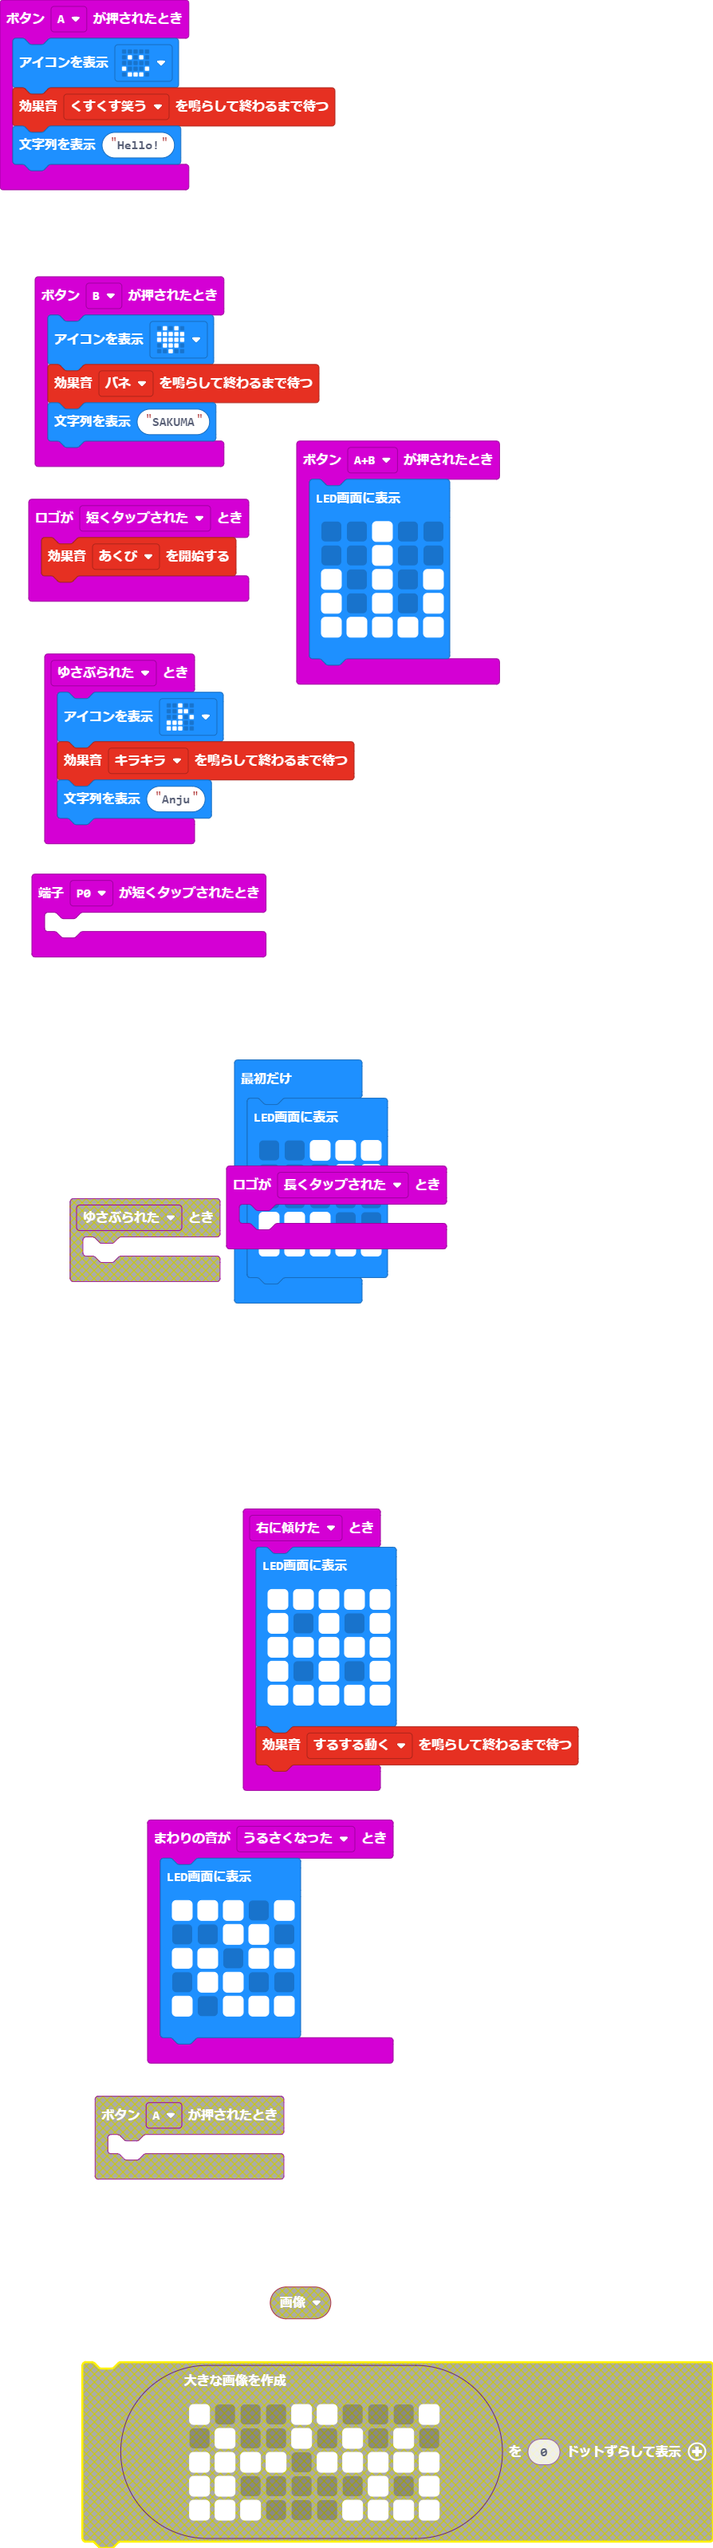
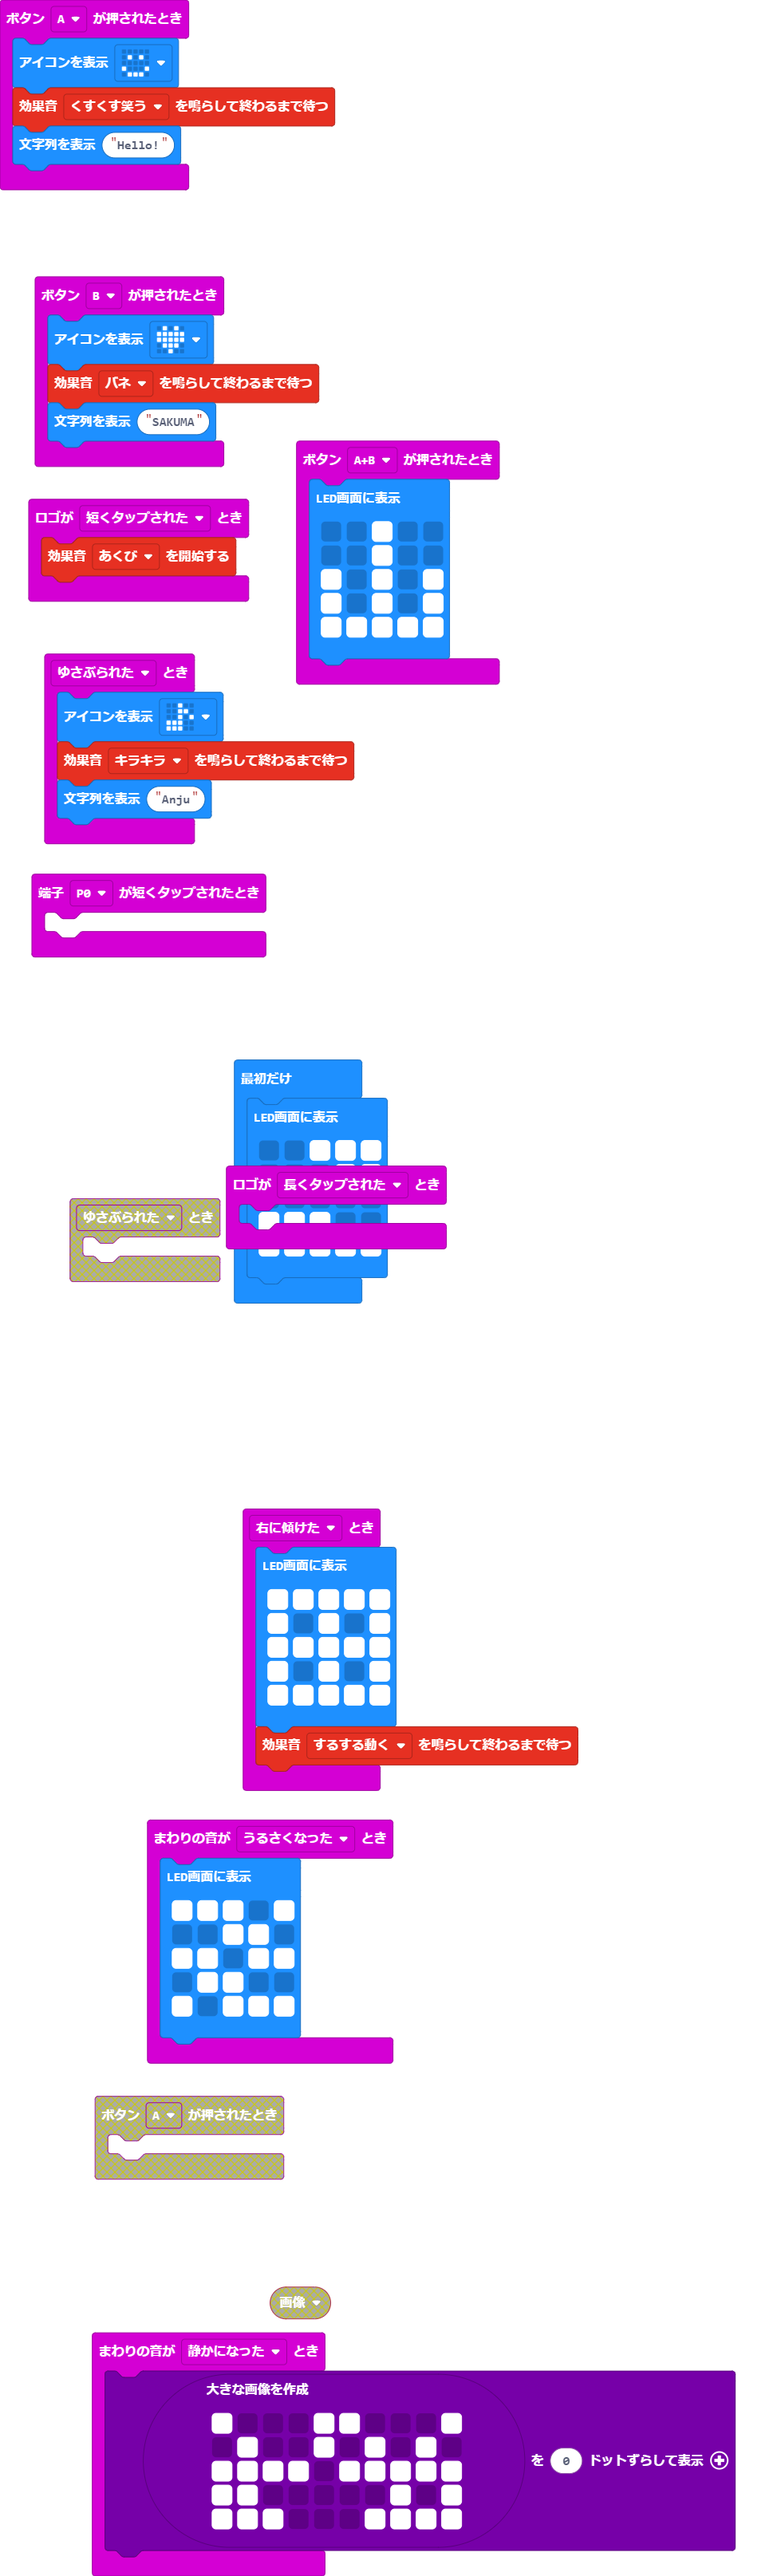
更新 main.blocks, main.ts

Changed region(s): [[0.0906, 0.5579, 1.0, 1.0], [0.0, 0.0, 0.6946, 0.5269]]

diff --git a/main.ts b/main.ts
@@ -1,6 +1,15 @@
 input.onPinPressed(TouchPin.P0, function () {
 	
 })
+input.onSound(DetectedSound.Quiet, function () {
+    images.createBigImage(`
+        # . . . # # . . . #
+        . # . . # . # . # .
+        # # # # . # # # # #
+        # # . . . . . # . #
+        # # # . . . # # # #
+        `).showImage(0)
+})
 input.onLogoEvent(TouchButtonEvent.LongPressed, function () {
 	
 })
